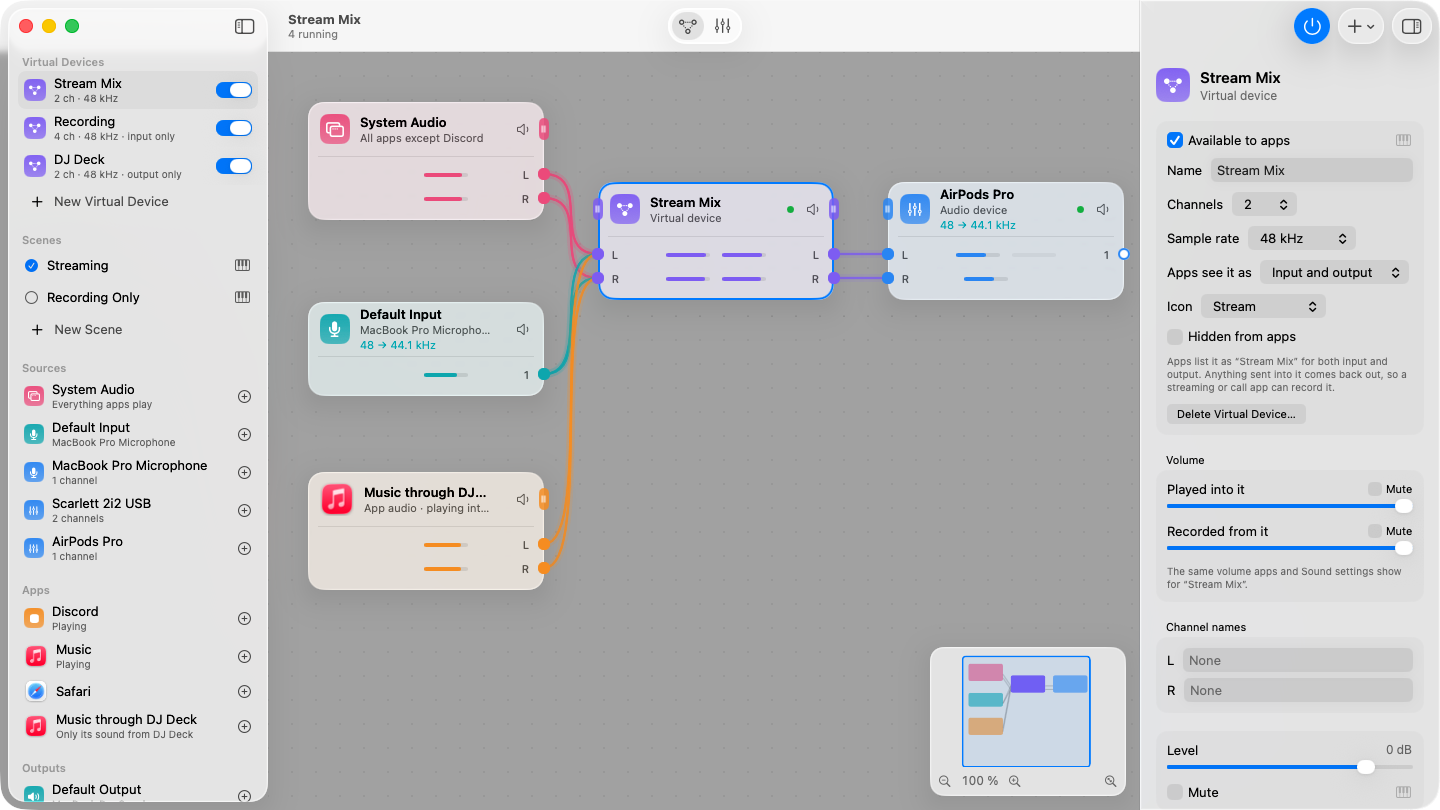
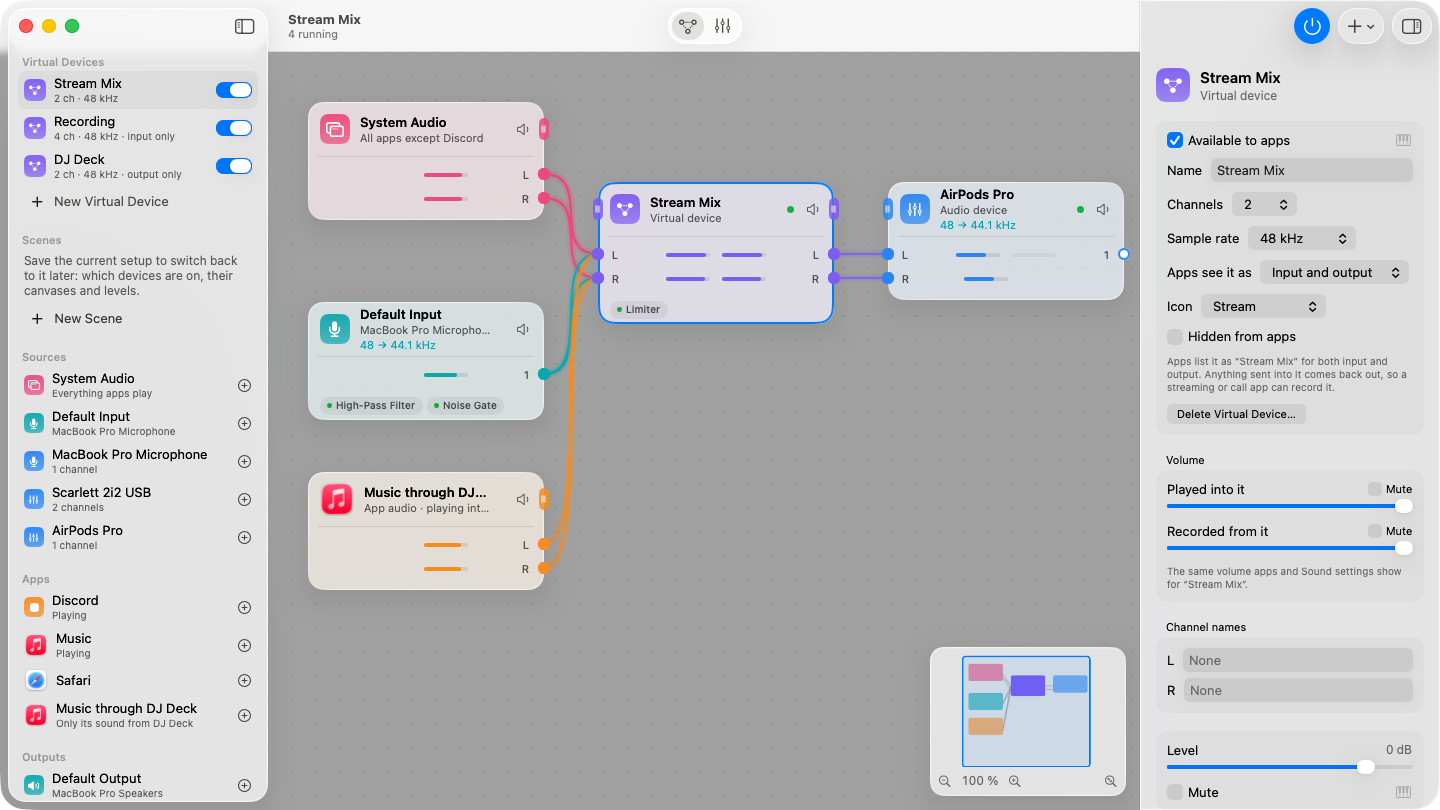
Show each node's effects on the canvas
A node with effects lists them in a row under its channels, in chain
order: a green dot when on, struck through when bypassed. Clicking a label
bypasses the effect or turns it back on. When they don't fit, the labels
use short names, then show the first ones and "+2", then "4 effects"; those
select the node. Nodes with effects are taller by that row, and Tidy Up
leaves room for it (with a test). The README, guide and the screenshots
that show effects are updated.

diff --git a/Sources/Junction/Canvas.swift b/Sources/Junction/Canvas.swift
@@ -9,11 +9,12 @@ enum NodeLayout {
     static let row = CGFloat(CanvasMetrics.row)
     static let topPadding = CGFloat(CanvasMetrics.topPadding)
     static let bottomPadding = CGFloat(CanvasMetrics.bottomPadding)
+    static let effectsRow = CGFloat(CanvasMetrics.effectsRow)
     static let portRadius: CGFloat = 6
 
     static func rows(_ ports: PortCounts) -> Int { CanvasMetrics.rows(ports) }
 
-    static func height(for ports: PortCounts) -> CGFloat { CGFloat(CanvasMetrics.height(for: ports)) }
+    static func height(_ node: Node, _ ports: PortCounts) -> CGFloat { CGFloat(CanvasMetrics.height(node, ports)) }
 
     static func origin(_ node: Node) -> CGPoint { CGPoint(x: node.x, y: node.y) }
 
@@ -817,8 +818,14 @@ struct NodeCard: View {
             }
             .padding(.top, NodeLayout.topPadding)
             .padding(.bottom, NodeLayout.bottomPadding)
+
+            if !node.effects.isEmpty {
+                EffectLabels(node: node)
+                    .padding(.horizontal, 12)
+                    .frame(height: NodeLayout.effectsRow, alignment: .top)
+            }
         }
-        .frame(width: NodeLayout.width, height: NodeLayout.height(for: ports), alignment: .top)
+        .frame(width: NodeLayout.width, height: NodeLayout.height(node, ports), alignment: .top)
         .glassEffect(.regular.tint(tint.opacity(0.06)), in: .rect(cornerRadius: 16))
         .overlay {
             RoundedRectangle(cornerRadius: 16)
@@ -911,7 +918,7 @@ struct NodeCard: View {
                     .position(local(NodeLayout.busInputPoint(node)))
             }
         }
-        .frame(width: NodeLayout.width, height: NodeLayout.height(for: ports), alignment: .topLeading)
+        .frame(width: NodeLayout.width, height: NodeLayout.height(node, ports), alignment: .topLeading)
     }
 
     /// A channel dot that the keyboard and VoiceOver can reach: Return (or VoiceOver's action) opens a list of the
@@ -974,6 +981,77 @@ struct NodeCard: View {
                 wire = nil
                 onWireEnd(finished)
             }
+    }
+}
+
+/// A node's effects as small labels under its channels, in chain order: a green dot when on, struck through when
+/// bypassed. Clicking one bypasses it or turns it back on (the inspector edits their settings). When they don't all fit,
+/// short titles are used, then the first ones and "+2", then "4 effects"; those select the node to show the rest.
+struct EffectLabels: View {
+    @Environment(AppModel.self) private var model
+    let node: Node
+
+    var body: some View {
+        let effects = node.effects
+        ViewThatFits(in: .horizontal) {
+            row(effects, short: false)
+            row(effects, short: true)
+            if effects.count > 2 { row(Array(effects.prefix(2)), short: true, more: effects.count - 2) }
+            if effects.count > 1 { row(Array(effects.prefix(1)), short: true, more: effects.count - 1) }
+            summary(effects)
+        }
+        .frame(maxWidth: .infinity, alignment: .leading)
+    }
+
+    private func row(_ shown: [Effect], short: Bool, more: Int = 0) -> some View {
+        HStack(spacing: 4) {
+            ForEach(shown) { chip($0, short: short) }
+            if more > 0 {
+                Button { model.selection = .node(node.id) } label: { capsule(Text("+\(more)")) }
+                    .buttonStyle(.plain)
+                    .help(node.effects.suffix(more).map(\.title).joined(separator: ", ") + ": select the item to see them")
+                    .accessibilityLabel("\(more) more effects")
+            }
+        }
+        .fixedSize()
+    }
+
+    private func summary(_ effects: [Effect]) -> some View {
+        Button { model.selection = .node(node.id) } label: {
+            capsule(Text(effects.count == 1 ? "1 effect" : "\(effects.count) effects"))
+        }
+        .buttonStyle(.plain)
+        .fixedSize()
+        .help(effects.map(\.title).joined(separator: ", ") + ": select the item to see them")
+    }
+
+    private func chip(_ effect: Effect, short: Bool) -> some View {
+        Button {
+            model.setEffectBypass(effect.id, in: node.id, !effect.bypass)
+        } label: {
+            capsule(HStack(spacing: 4) {
+                Circle().fill(effect.bypass ? Color.secondary.opacity(0.4) : .green).frame(width: 5, height: 5)
+                Text(short ? effect.shortTitle : effect.title)
+                    .strikethrough(effect.bypass)
+                    .lineLimit(1)
+                    .frame(maxWidth: 96)
+            }, dimmed: effect.bypass)
+        }
+        .buttonStyle(.plain)
+        .help(effect.bypass ? "\(effect.title) is bypassed: click to turn it on" : "Click to bypass \(effect.title)")
+        .accessibilityLabel(effect.title)
+        .accessibilityValue(effect.bypass ? "Bypassed" : "On")
+        .accessibilityHint(effect.bypass ? "Turns it on" : "Bypasses it")
+    }
+
+    private func capsule(_ content: some View, dimmed: Bool = false) -> some View {
+        content
+            .font(.system(size: 10, weight: .medium))
+            .foregroundStyle(dimmed ? .tertiary : .secondary)
+            .padding(.horizontal, 7)
+            .frame(height: 18)
+            .background(Capsule().fill(.quaternary.opacity(0.6)))
+            .contentShape(Capsule())
     }
 }
 

diff --git a/Sources/JunctionCore/Editing.swift b/Sources/JunctionCore/Editing.swift
@@ -58,6 +58,8 @@ public enum CanvasMetrics {
     public static let row = 24.0
     public static let topPadding = 6.0
     public static let bottomPadding = 10.0
+    /// The row of effect labels under the channels, on nodes that have effects.
+    public static let effectsRow = 24.0
     /// Space left between nodes stacked in a column.
     public static let gap = 30.0
     /// Where the first node of a column starts.
@@ -65,12 +67,12 @@ public enum CanvasMetrics {
 
     public static func rows(_ ports: PortCounts) -> Int { max(1, max(ports.inputs, ports.outputs)) }
 
-    public static func height(for ports: PortCounts) -> Double {
-        header + topPadding + Double(rows(ports)) * row + bottomPadding
+    public static func height(_ node: Node, _ ports: PortCounts) -> Double {
+        header + topPadding + Double(rows(ports)) * row + bottomPadding + (node.effects.isEmpty ? 0 : effectsRow)
     }
 
     public static func frame(_ node: Node, _ ports: PortCounts) -> CGRect {
-        CGRect(x: node.x, y: node.y, width: nodeWidth, height: height(for: ports))
+        CGRect(x: node.x, y: node.y, width: nodeWidth, height: height(node, ports))
     }
 }
 
@@ -252,12 +254,12 @@ public enum Editing {
             var y = CanvasMetrics.top
             for node in column.sorted(by: { ($0.y, $0.x) < ($1.y, $1.x) }) {
                 positions[node.id] = (x, y)
-                y += CanvasMetrics.height(for: info.ports(node)) + CanvasMetrics.gap
+                y += CanvasMetrics.height(node, info.ports(node)) + CanvasMetrics.gap
             }
             return y - CanvasMetrics.gap - CanvasMetrics.top
         }
         let tallest = max(stack(sources, x: CanvasColumn.sources), stack(outputs, x: CanvasColumn.outputs))
-        let deviceHeight = CanvasMetrics.height(for: info.ports(device))
+        let deviceHeight = CanvasMetrics.height(device, info.ports(device))
         positions[device.id] = (CanvasColumn.device, CanvasMetrics.top + max(0, (tallest - deviceHeight) / 2).rounded())
         for index in graph.nodes.indices {
             guard let (x, y) = positions[graph.nodes[index].id] else { continue }

diff --git a/Tests/JunctionCoreTests/EditingTests.swift b/Tests/JunctionCoreTests/EditingTests.swift
@@ -235,6 +235,28 @@ final class EditingTests: XCTestCase {
         XCTAssertEqual(again, graph, "tidying a tidy canvas changes nothing")
     }
 
+    func testEffectLabelsMakeANodeTallerAndTidyUpLeavesRoomForThem() throws {
+        var (graph, system, mic, _) = sample()
+        let canvas = Demo.streamMix.id
+        let info = NodeInfo(graph: graph, inventory: Demo.inventory)
+        let plain = CanvasMetrics.height(system, info.ports(system))
+        let index = try XCTUnwrap(graph.nodes.firstIndex { $0.id == system.id })
+        graph.nodes[index].effects = [Effect(.highPass), Effect(.gate)]
+        let withEffects = graph.nodes[index]
+        XCTAssertEqual(CanvasMetrics.height(withEffects, info.ports(withEffects)), plain + CanvasMetrics.effectsRow)
+        XCTAssertEqual(CanvasMetrics.frame(withEffects, info.ports(withEffects)).height, plain + CanvasMetrics.effectsRow)
+        let micPorts = info.ports(mic)
+        XCTAssertEqual(CanvasMetrics.height(mic, micPorts),
+                       CanvasMetrics.header + CanvasMetrics.topPadding + Double(CanvasMetrics.rows(micPorts)) * CanvasMetrics.row
+                           + CanvasMetrics.bottomPadding, "a node without effects has no label row")
+
+        Editing.tidyUp(&graph, canvas: canvas, inventory: Demo.inventory)
+        let tidied = try XCTUnwrap(graph.nodes.first { $0.id == system.id })
+        let below = try XCTUnwrap(graph.nodes.first { $0.id == mic.id })
+        XCTAssertEqual(below.y, tidied.y + plain + CanvasMetrics.effectsRow + CanvasMetrics.gap,
+                       "the next node in the column starts below the labels")
+    }
+
     func testSelection() {
         let a = UUID(), b = UUID(), c = UUID()
         XCTAssertNil(CanvasSelection.of([]))

diff --git a/Sources/JunctionCore/Effects.swift b/Sources/JunctionCore/Effects.swift
@@ -73,6 +73,9 @@ public struct Effect: Codable, Identifiable, Hashable, Sendable {
     /// "Noise Gate", "Space Reverb".
     public var title: String { kind?.title ?? name ?? (isPlugin ? "\(manufacturer) \(subtype)" : "Unknown Effect") }
 
+    /// "Gate", "Space Reverb": for labels where space is short (a plugin keeps its name).
+    public var shortTitle: String { kind?.shortTitle ?? title }
+
     /// A parameter's value: as set, or the effect's default.
     public func value(_ parameter: EffectParameter) -> Double {
         parameters[String(parameter.id)] ?? parameter.defaultValue
@@ -101,6 +104,20 @@ public enum EffectKind: String, CaseIterable, Sendable {
         case .highPass: "High-Pass Filter"
         case .equalizer: "Equalizer"
         case .dynamics: "Compressor"
+        case .limiter: "Limiter"
+        }
+    }
+
+    /// The title in a word, for the labels on canvas nodes.
+    public var shortTitle: String {
+        switch self {
+        case .gain: "Gain"
+        case .pan: "Pan"
+        case .mono: "Mono"
+        case .gate: "Gate"
+        case .highPass: "High-Pass"
+        case .equalizer: "EQ"
+        case .dynamics: "Comp"
         case .limiter: "Limiter"
         }
     }

diff --git a/Sources/Junction/AppModel.swift b/Sources/Junction/AppModel.swift
@@ -1127,7 +1127,7 @@ final class AppModel {
     private func freeSpot(role: NodeRole, canvas: UUID) -> CGPoint {
         let column = role == .source ? CanvasColumn.sources : CanvasColumn.outputs
         let bottom = graph.nodes(on: canvas).filter { abs($0.x - column) < 150 }
-            .map { $0.y + Double(NodeLayout.height(for: info.ports($0))) }.max() ?? 20
+            .map { $0.y + Double(NodeLayout.height($0, info.ports($0))) }.max() ?? 20
         return CGPoint(x: column, y: bottom + 30)
     }
 

diff --git a/README.md b/README.md
@@ -26,7 +26,8 @@ without your voice chat, step by step.
   receives. Gain, pan, mono and a noise gate are built in; a high-pass filter, a three-band equalizer, a compressor
   and a limiter are Apple's Audio Units. Each effect can be bypassed and moved up or down; the inspector shows the
   levels after the chain and the delay it adds (also counted in the destination's delay), and each effect's CPU share
-  and delay while it runs.
+  and delay while it runs. On the canvas, a node with effects lists them in a row under its channels; clicking one
+  bypasses it or turns it back on.
 - **Audio Unit plugins**: **Add Effect › Audio Unit…** lists every effect Audio Unit installed on the Mac by maker,
   with a search field. A plugin opens its own window (**Open Window**) in the process that routes, runs in a process
   of its own where macOS allows it, and is saved with the setup, settings made in its window included. One that keeps

diff --git a/docs/GUIDE.md b/docs/GUIDE.md
@@ -291,6 +291,11 @@ levels after the effects (the meters on the canvas do too). Some effects, such a
 little delay: the box says how much, and the delay under **Delay** includes it. Effects are saved with the setup and
 with scenes, and they keep working when Junction routes in the background.
 
+On the canvas, an item with effects lists them under its channels, in order: a green dot when an effect is on, struck
+through when it's bypassed. Click one to bypass it or turn it back on. When they don't all fit, the names get shorter,
+then the last ones show as **+2** (or the item says **4 effects**): click that to select the item and see them all in
+the inspector.
+
 Under each effect the box shows what it costs while it runs: how much of the Mac's processor it uses ("CPU 1.2 %"),
 the delay it adds, and "own process" for a plugin macOS runs on its own.
 
